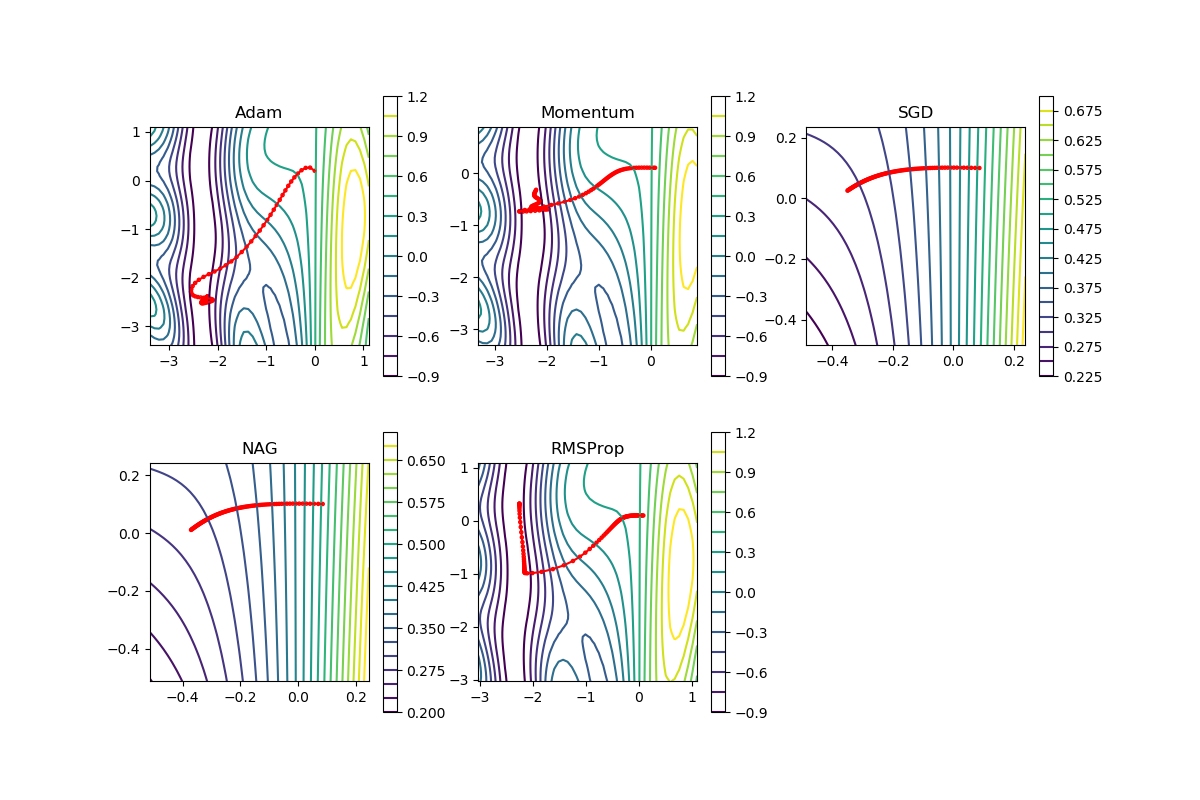
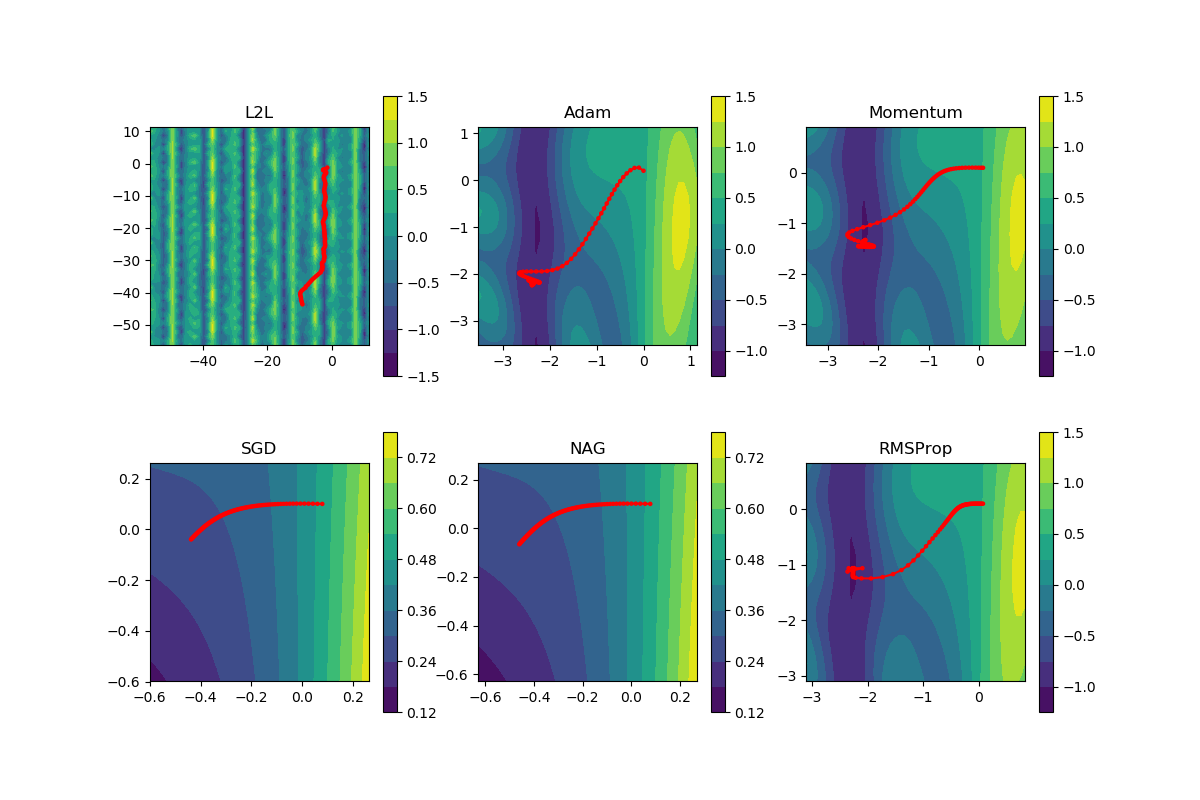
non-convex debugged

diff --git a/problems.py b/problems.py
@@ -116,7 +116,7 @@ def quadratic(batch_size=128, num_dims=10, stddev=0.01, dtype=tf.float32, proble
 
 def prob_sin(batch_size=128, num_dims=2, stddev=0.01, dtype=tf.float32, problem_param=None):
   # def quadratic(batch_size=1, num_dims=10, stddev=0.01, dtype=tf.float32):
-  """f(x) = np.sin(x + b) ** 5 + a * np.cos(b + y * x) * np.cos(c * x)"""
+  """f(x, y) = np.sin(x + b) ** 5 + a * np.cos(b + y * x) * np.cos(c * x)"""
 
   def build():
     """Builds loss graph."""
@@ -130,10 +130,9 @@ def prob_sin(batch_size=128, num_dims=2, stddev=0.01, dtype=tf.float32, problem_
 
     x = tf.get_variable(
       "x",
-      #shape=[batch_size, num_dims],
+      # shape=[batch_size, num_dims],
       dtype=dtype,
       initializer=tf.constant(np.ones(shape=(batch_size, 2), dtype=np.float32) * 0.1))
-
     # Non-trainable variables.
     if problem_param is None:
       a = tf.get_variable("a",
@@ -155,20 +154,22 @@ def prob_sin(batch_size=128, num_dims=2, stddev=0.01, dtype=tf.float32, problem_
       a = tf.get_variable("a",
                           shape=[batch_size, 1],
                           dtype=dtype,
-                          initializer=tf.constant_initializer(problem_param[0]),
+                          initializer=tf.constant_initializer(problem_param[:, 0]),
                           trainable=False)
       b = tf.get_variable("b",
                           shape=[batch_size, 1],
                           dtype=dtype,
-                          initializer=tf.constant_initializer(problem_param[1]),
+                          initializer=tf.constant_initializer(problem_param[:, 1]),
                           trainable=False)
       c = tf.get_variable("c",
                           shape=[batch_size, 1],
                           dtype=dtype,
-                          initializer=tf.constant_initializer(problem_param[2]),
+                          initializer=tf.constant_initializer(problem_param[:, 2]),
                           trainable=False)
 
-    f_sin = tf.squeeze(tf.pow(tf.sin(x[:, 0] + b), 5) + a * tf.cos(b + x[:, 1] * x[:, 0]) * tf.cos(c * x[:, 0]))
+    tx = tf.slice(x, [0, 0], [-1, 1])
+    ty = tf.slice(x, [0, 1], [-1, 1])
+    f_sin = tf.squeeze(tf.pow(tf.sin(tx + b), 5) + a * tf.cos(b + ty * tx) * tf.cos(c * tx))
     return tf.reduce_mean(f_sin)
 
   return build

diff --git a/plot_sin.py b/plot_sin.py
@@ -30,7 +30,7 @@ def f_quad(X1, X2, W, Y):
 
 
 def main():
-  optimizers = ['Adam', 'Momentum', 'SGD', 'NAG', 'RMSProp']
+  optimizers = ['L2L', 'Adam', 'Momentum', 'SGD', 'NAG', 'RMSProp']
 
   problem_path = './problems/sin.npy'
   problems = np.load(problem_path)
@@ -56,7 +56,7 @@ def main():
     plt.xlabel('number of iterations')
     plt.ylabel('objective value')
     ax = fig.add_subplot(1, 1, 1)
-    ax.set_yscale("log")
+    #ax.set_yscale("log")
     plt.savefig('./figs/loss_prob_{}.png'.format(prob_idx))
     # X = {}  # dictionary to store data
     # obj = {}  # dictionary to store obj value
@@ -93,7 +93,7 @@ def main():
       X1, X2 = np.meshgrid(x1, x2)
       Z = f_sin(X1, X2, a, b, c)
       ax = fig.add_subplot(2, (n + 1) / 2, i + 1)
-      cf = ax.contour(X1, X2, Z, 20)
+      cf = ax.contourf(X1, X2, Z, 10)
       fig.colorbar(cf, ax=ax)
       ax.set_aspect('equal')
       ax.axis([t_min, t_max, t_min, t_max])
